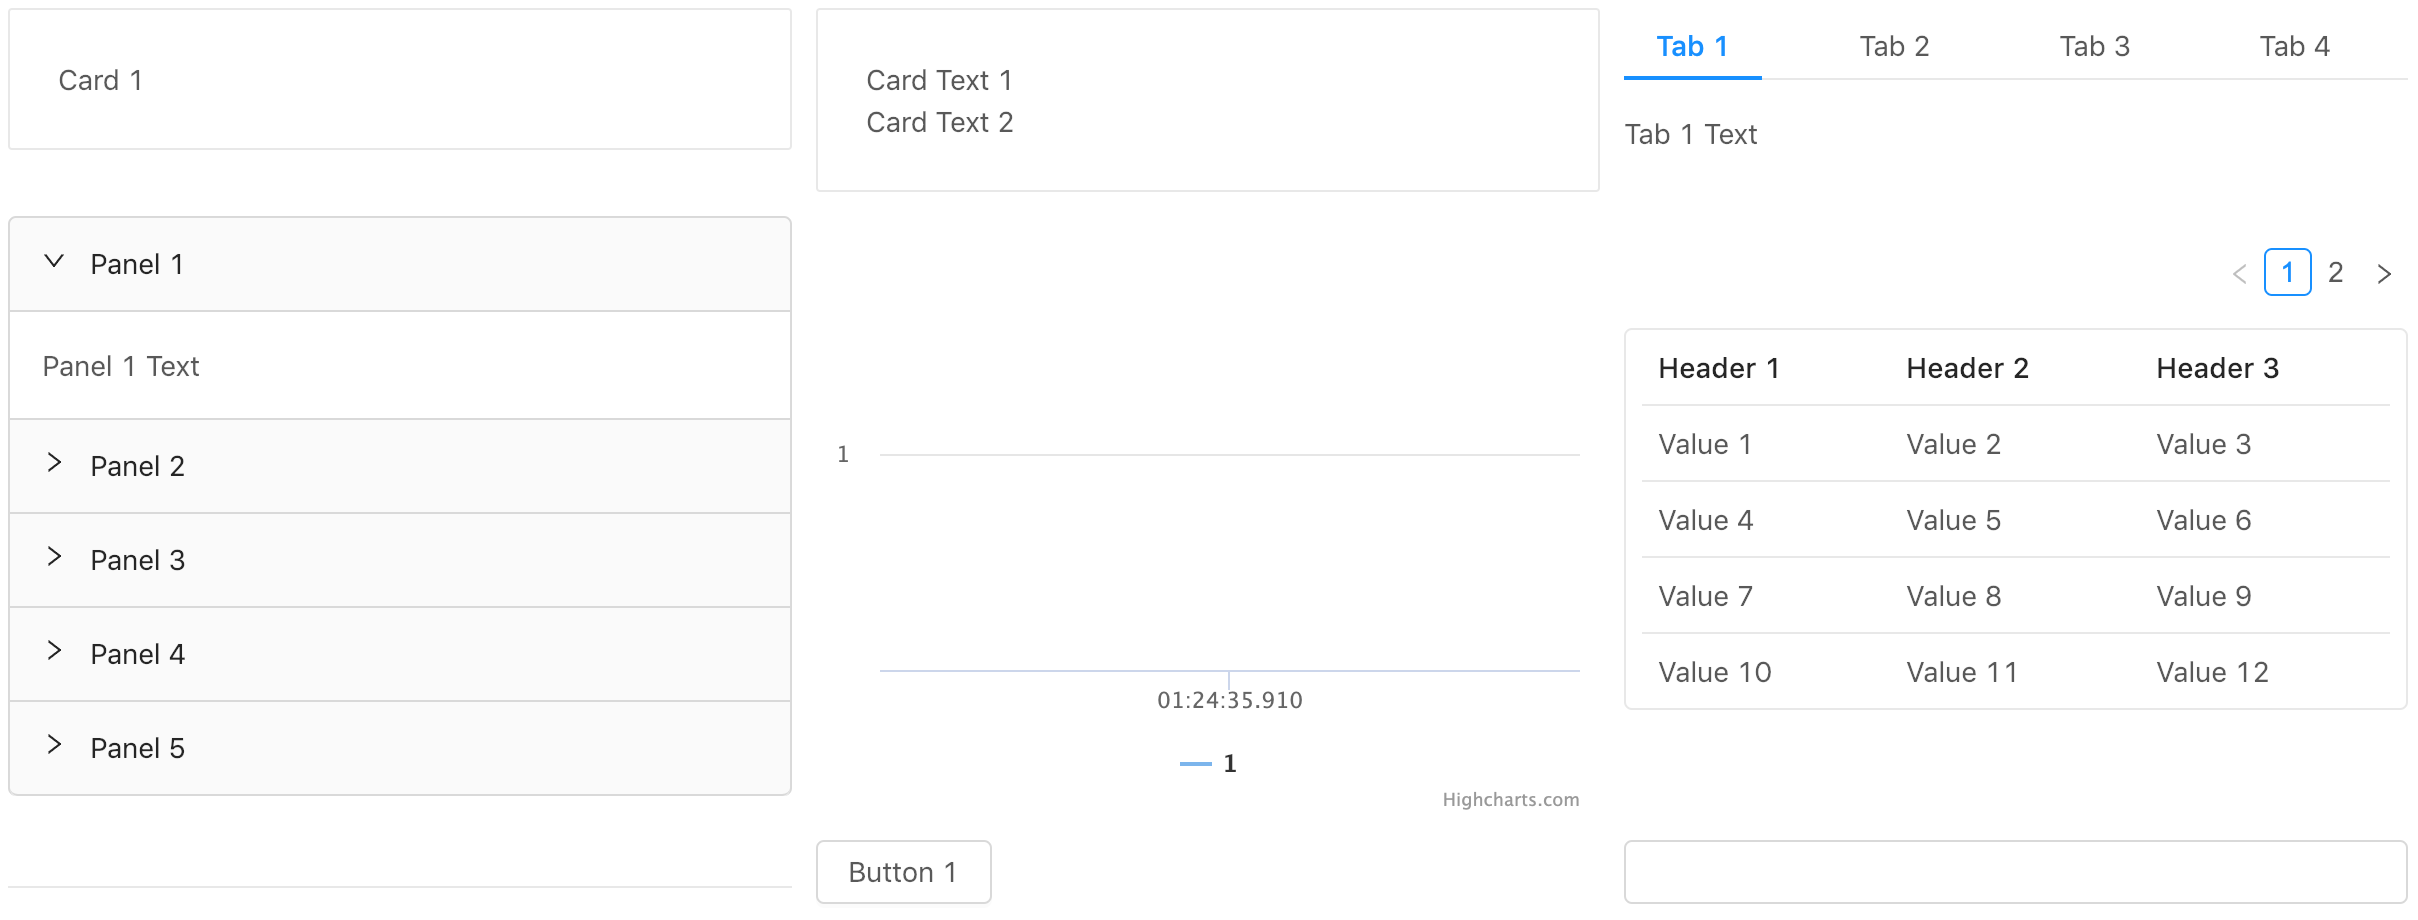
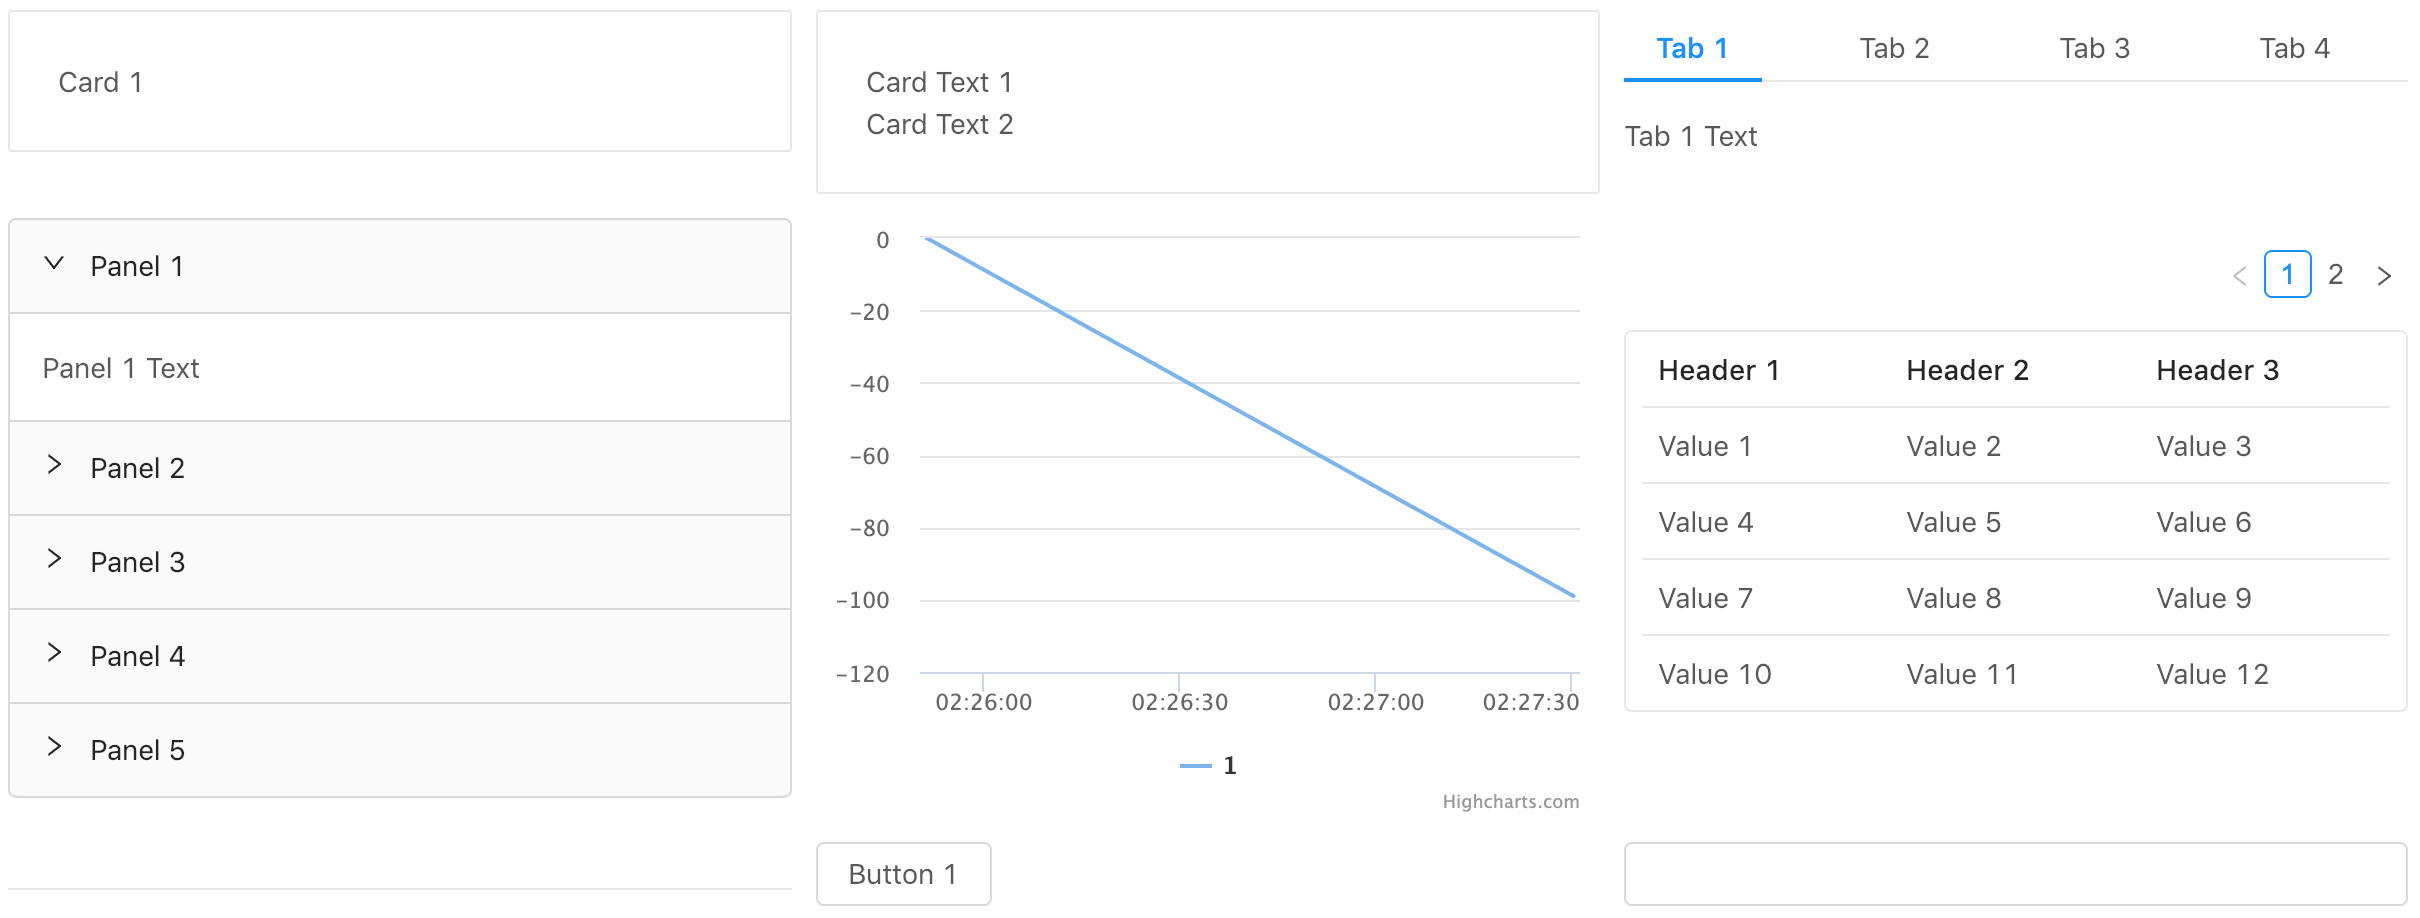
Add option to explicity provide time for chart data points

diff --git a/awe/chart.py b/awe/chart.py
@@ -3,7 +3,8 @@ import time
 from .view import Element
 
 number_types = (int, float)
-now_ms = (lambda: int(time.time() * 1000))
+to_ms = (lambda s: int(s * 1000))
+now_ms = (lambda: to_ms(time.time()))
 
 
 class Transformer(object):
@@ -55,7 +56,7 @@ class NumberSequenceTransformer(Transformer):
     """
     A numbers transformer.
 
-    Assumes each item in data if a single number or a list of numbers.
+    Assumes each item in data is a single number or a list of numbers.
 
     If a list of numbers is supplied, each number in the list is assumed to belong to a different series.
 
@@ -68,6 +69,9 @@ class NumberSequenceTransformer(Transformer):
         now = now_ms()
         series_dict = {}
         for item in data:
+            if isinstance(item, tuple) and len(item) == 2:
+                now, item = item
+                now = to_ms(now)
             if isinstance(item, number_types):
                 item = [item]
             for index, value in enumerate(item):
@@ -105,6 +109,9 @@ class FlatDictTransformer(Transformer):
         result = {}
         chart_dict = {}
         for item in data:
+            if isinstance(item, tuple) and len(item) == 2:
+                now, item = item
+                now = to_ms(now)
             chart_key = ' '.join(item[k] for k in self._chart_mapping)
             series_key = ' '.join(item[k] for k in self._series_mapping)
             value = item[self._value_key]
@@ -163,6 +170,9 @@ class DictLevelsTransformer(Transformer):
         result = {}
         chart_dict = {}
         for item in data:
+            if isinstance(item, tuple) and len(item) == 2:
+                now, item = item
+                now = to_ms(now)
             for path, value in self._iterate_paths(item, []):
                 self._process_path(chart_dict, now, path, value)
         for chart_key, series in chart_dict.items():
@@ -222,7 +232,10 @@ class Chart(Element):
         """
         Add new data to a chart after it has been created.
 
-        :param data: A list of data items.
+        :param data: A list of data items. Each data item is expected to match the format the transformer expects.
+                     A data item may also be supplied in the form of a 2-tuple (time, data),
+                     in which case, the first item is the epoch time in seconds with ms precision and
+                     the second item is the data item itself.
         """
         transformed_data = self.transformer.add(self.data['data'], data)
         self.update_element(

diff --git a/tests/test_chart.py b/tests/test_chart.py
@@ -142,6 +142,14 @@ def test_numbers_transformer():
     }
 
 
+def test_numbers_transformer_timed_tuples():
+    ts = 1000.12
+    expected_ts = int(ts * 1000)
+    numbers = chart.NumberSequenceTransformer()
+    transform = numbers.transform([(ts, 1234)])
+    assert transform == {'': {'series': [{'data': [(expected_ts, 1234)], 'name': 1}], 'title': '', 'type': 'line'}}
+
+
 @mock.patch.object(chart, 'now_ms', lambda: 0)
 def test_flat_transformer():
     flat = chart.FlatDictTransformer(
@@ -177,6 +185,14 @@ def test_flat_transformer():
             'type': 'line'
         }
     }
+
+
+def test_flat_transformer_timed_tuples():
+    ts = 1000.12
+    expected_ts = int(ts * 1000)
+    numbers = chart.FlatDictTransformer(['a'], ['b'], 'c')
+    transform = numbers.transform([(ts, {'a': 'a', 'b': 'b', 'c': 1234})])
+    assert transform == {'a': {'series': [{'data': [(expected_ts, 1234)], 'name': 'b'}], 'title': 'a', 'type': 'line'}}
 
 
 @mock.patch.object(chart, 'now_ms', lambda: 0)
@@ -227,3 +243,11 @@ def test_dict_level_transformer():
             'type': 'line'
         }
     }
+
+
+def test_dict_level_transformer_timed_tuples():
+    ts = 1000.12
+    expected_ts = int(ts * 1000)
+    transformer = chart.DictLevelsTransformer.from_str('1to2')
+    transform = transformer.transform([(ts, {'c': {'d': 1234}})])
+    assert transform == {'c': {'series': [{'data': [(expected_ts, 1234)], 'name': 'd'}], 'title': 'c', 'type': 'line'}}

diff --git a/awe/view.py b/awe/view.py
@@ -119,7 +119,10 @@ class Element(object):
         """
         Add a chart child.
 
-        :param data: A list of data items.
+        :param data: A list of data items. Each data item is expected to match the format the transformer expects.
+                     A data item may also be supplied in the form of a 2-tuple (time, data),
+                     in which case, the first item is the epoch time in seconds with ms precision and
+                     the second item is the data item itself.
         :param options: Optional highcharts options object.
         :param transform: A transformer for the supplied data which transforms the data into suitable highcharts charts
                           and series definitions. Can be either a transformer object, a dict with transformer

diff --git a/examples/showcase.py b/examples/showcase.py
@@ -1,14 +1,17 @@
+import time
+
 from awe import Page
 
 
 def main():
+    now = time.time()
     page = Page('Showcase')
     grid = page.new_grid(columns=3, props={'gutter': 12})
     grid.new_card('Card 1')
     card = grid.new_card()
     tabs = grid.new_tabs()
     collapse = grid.new_collapse()
-    grid.new_chart([[1]], transform='numbers')
+    grid.new_chart([(now+i, -i) for i in range(100)], transform='numbers')
     grid.new_table(['Header 1', 'Header 2', 'Header 3'], page_size=4).extend([
         ['Value {}'.format(i), 'Value {}'.format(i+1), 'Value {}'.format(i+2)]
         for i in range(1, 20, 3)

diff --git a/README.md b/README.md
@@ -365,17 +365,20 @@ if __name__ == '__main__':
 A page that showcases all (currently) available elements in `awe`.
 
 ```python
+import time
+
 from awe import Page
 
 
 def main():
+    now = time.time()
     page = Page('Showcase')
     grid = page.new_grid(columns=3, props={'gutter': 12})
     grid.new_card('Card 1')
     card = grid.new_card()
     tabs = grid.new_tabs()
     collapse = grid.new_collapse()
-    grid.new_chart([[1]], transform='numbers')
+    grid.new_chart([(now+i, -i) for i in range(100)], transform='numbers')
     grid.new_table(['Header 1', 'Header 2', 'Header 3'], page_size=4).extend([
         ['Value {}'.format(i), 'Value {}'.format(i+1), 'Value {}'.format(i+2)]
         for i in range(1, 20, 3)
